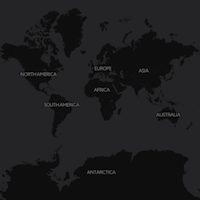
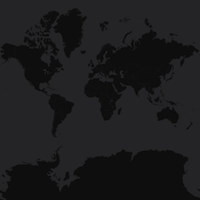
Replaced the Positron and Dark Matter basemaps with label-free ones.

diff --git a/lib/ViewModels/createGlobalBaseMapOptions.js b/lib/ViewModels/createGlobalBaseMapOptions.js
@@ -42,7 +42,7 @@ var createGlobalBaseMapOptions = function(terria, bingMapsKey) {
 
     var positron = new OpenStreetMapCatalogItem(terria);
     positron.name = 'Positron (Light)';
-    positron.url = '//global.ssl.fastly.net/light_all/';
+    positron.url = '//global.ssl.fastly.net/light_nolabels/';
 
     // https://cartodb.com/basemaps/ gives two different attribution strings. In any case HTML gets swallowed, so we have to adapt.
     // 1 '&copy; <a href="http://www.openstreetmap.org/copyright">OpenStreetMap</a> contributors, &copy;
@@ -61,7 +61,7 @@ var createGlobalBaseMapOptions = function(terria, bingMapsKey) {
 
     var darkMatter = new OpenStreetMapCatalogItem(terria);
     darkMatter.name = 'Dark Matter';
-    darkMatter.url = '//global.ssl.fastly.net/dark_all/';
+    darkMatter.url = '//global.ssl.fastly.net/dark_nolabels/';
 
     darkMatter.attribution = '© OpenStreetMap contributors ODbL, © CartoDB CC-BY 3.0';
 
